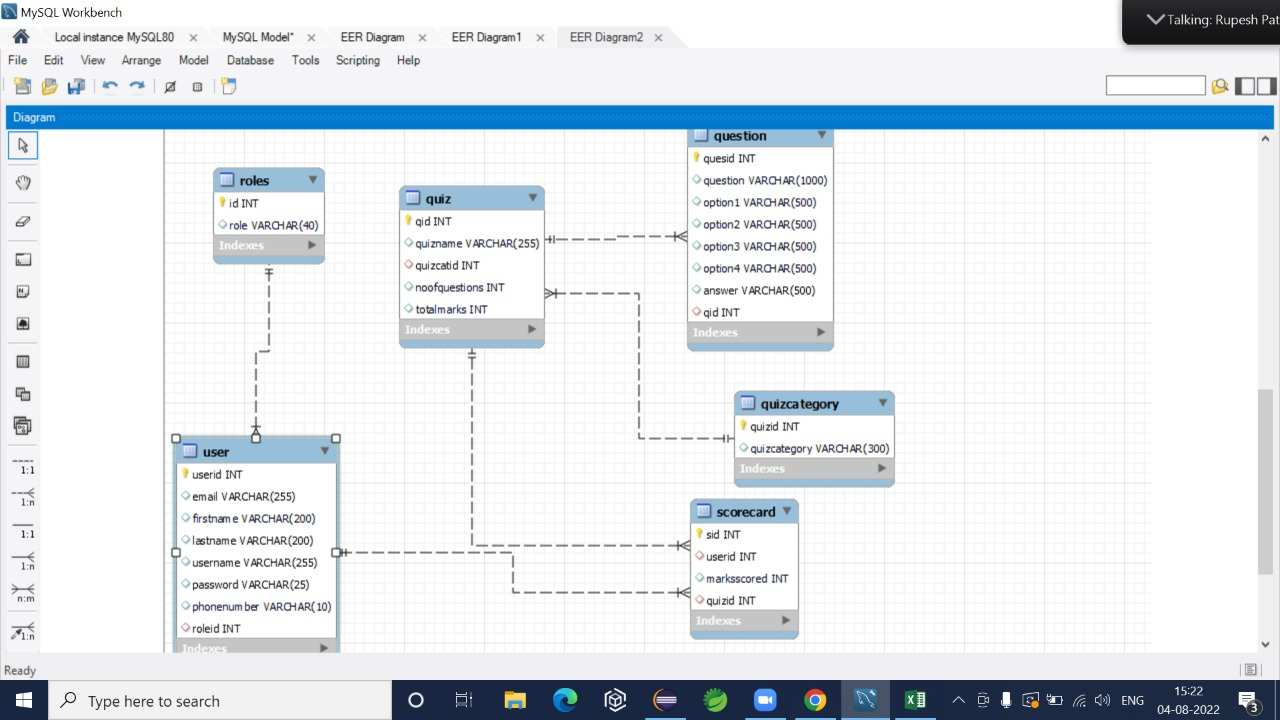
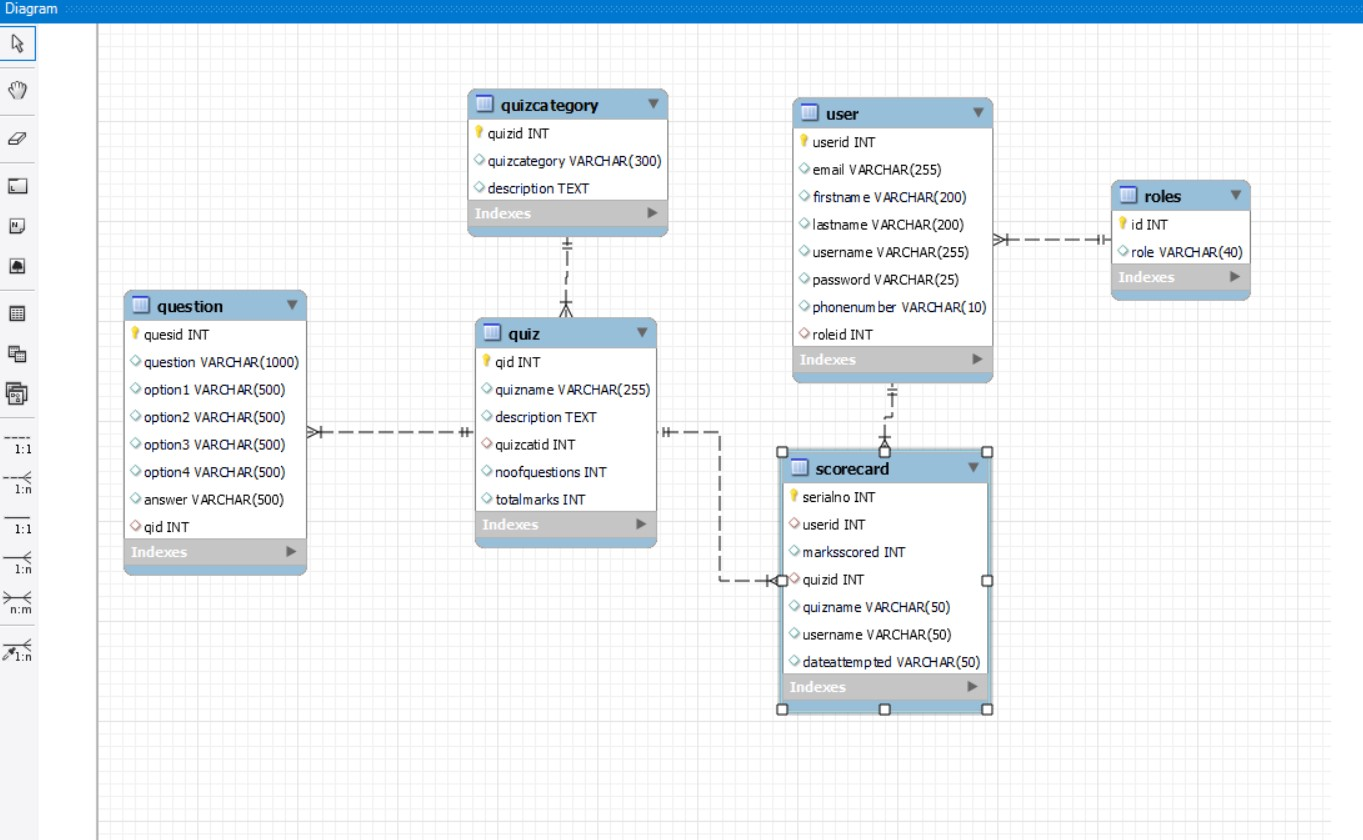
updated backend part

diff --git a/OnlineQuizNaveen's/src/main/java/com/example/demo/entity/ScoreCard.java b/OnlineQuizNaveen's/src/main/java/com/example/demo/entity/ScoreCard.java
@@ -1,0 +1,109 @@
+package com.example.demo.entity;
+
+
+import javax.persistence.Column;
+import javax.persistence.Entity;
+import javax.persistence.GeneratedValue;
+import javax.persistence.GenerationType;
+import javax.persistence.Id;
+import javax.persistence.Table;
+
+@Entity
+@Table(name="scorecard")
+public class ScoreCard {
+
+	@Id
+	@Column(name="serialno")
+	@GeneratedValue(strategy = GenerationType.IDENTITY)
+	private Integer serialNo;
+	@Column(name="userid")
+	private Integer userId;
+	@Column(name="marksscored")
+	private Integer marksScored;
+	@Column(name="quizid")
+	private Integer quizId;
+	
+	@Column(name ="quizname")
+	private String quizname;
+	
+	@Column(name="username")
+	private String userName;
+	
+	@Column(name ="dateattempted")
+	private String dateAttempted;
+	
+	public ScoreCard() {
+		
+	}
+
+	public ScoreCard(Integer serialNo, Integer userId, Integer marksScored, Integer quizId, String quizname,
+			String userName, String dateAttempted) {
+		super();
+		this.serialNo = serialNo;
+		this.userId = userId;
+		this.marksScored = marksScored;
+		this.quizId = quizId;
+		this.quizname = quizname;
+		this.userName = userName;
+		this.dateAttempted = dateAttempted;
+	}
+
+	public Integer getSerialNo() {
+		return serialNo;
+	}
+
+	public void setSerialNo(Integer serialNo) {
+		this.serialNo = serialNo;
+	}
+
+	public Integer getUserId() {
+		return userId;
+	}
+
+	public void setUserId(Integer userId) {
+		this.userId = userId;
+	}
+
+	public Integer getMarksScored() {
+		return marksScored;
+	}
+
+	public void setMarksScored(Integer marksScored) {
+		this.marksScored = marksScored;
+	}
+
+	public Integer getQuizId() {
+		return quizId;
+	}
+
+	public void setQuizId(Integer quizId) {
+		this.quizId = quizId;
+	}
+
+	public String getQuizname() {
+		return quizname;
+	}
+
+	public void setQuizname(String quizname) {
+		this.quizname = quizname;
+	}
+
+	public String getUserName() {
+		return userName;
+	}
+
+	public void setUserName(String userName) {
+		this.userName = userName;
+	}
+
+	public String getDateAttempted() {
+		return dateAttempted;
+	}
+
+	public void setDateAttempted(String dateAttempted) {
+		this.dateAttempted = dateAttempted;
+	}
+
+	
+
+}

diff --git a/OnlineQuizNaveen's/src/main/java/com/example/demo/entity/User.java b/OnlineQuizNaveen's/src/main/java/com/example/demo/entity/User.java
@@ -11,7 +11,7 @@ public class User {
 
 	@Id
 	@Column(name="userid")
-	private int userId;
+	private Integer userId;
 	@Column(name="email")
 	private String email;
 	@Column(name="firstname")
@@ -25,7 +25,7 @@ public class User {
 	@Column(name="phonenumber")
 	private String phoneNo;
 	@Column(name="roleid")
-	private int roleId;
+	private Integer roleId;
 
 	
 	public User() {
@@ -33,8 +33,8 @@ public class User {
 	}
 
 
-	public User(int userId, String email, String firstName, String lastName, String userName, String password,
-			String phoneNo, int roleId) {
+	public User(Integer userId, String email, String firstName, String lastName, String userName, String password,
+			String phoneNo, Integer roleId) {
 		super();
 		this.userId = userId;
 		this.email = email;
@@ -47,12 +47,12 @@ public class User {
 	}
 
 
-	public int getUserId() {
+	public Integer getUserId() {
 		return userId;
 	}
 
 
-	public void setUserId(int userId) {
+	public void setUserId(Integer userId) {
 		this.userId = userId;
 	}
 
@@ -117,12 +117,12 @@ public class User {
 	}
 
 
-	public int getRoleId() {
+	public Integer getRoleId() {
 		return roleId;
 	}
 
 
-	public void setRoleId(int roleId) {
+	public void setRoleId(Integer roleId) {
 		this.roleId = roleId;
 	}
 	

diff --git a/OnlineQuizNaveen's/src/main/java/com/example/demo/reposiitory/ScoreCardRepository.java b/OnlineQuizNaveen's/src/main/java/com/example/demo/reposiitory/ScoreCardRepository.java
@@ -1,6 +1,7 @@
 package com.example.demo.reposiitory;
 
 import java.util.List;
+import java.util.Set;
 
 import org.springframework.data.domain.Page;
 import org.springframework.data.domain.Pageable;
@@ -9,13 +10,17 @@ import org.springframework.data.rest.core.annotation.RepositoryRestResource;
 import org.springframework.web.bind.annotation.CrossOrigin;
 import org.springframework.web.bind.annotation.RequestParam;
 
+import com.example.demo.entity.ScoreCard;
 
-import com.example.demo.entity.User;
 
-@RepositoryRestResource(path="user")
+@RepositoryRestResource(path="scorecard")
 @CrossOrigin("http://localhost:4200")
-public interface UserRepository extends JpaRepository<User, Integer>{
-
-	public List<User> findByUserNameContainsIgnoreCase(String name);
-	//Page<User> findBycategoryId(@RequestParam("id")Integer id,Pageable pageable);
+public interface ScoreCardRepository extends JpaRepository<ScoreCard,Integer>{
+	
+	public List<ScoreCard> findByUserId(Integer id);
+	
+	Page<ScoreCard> findByquizId(@RequestParam("id")Integer id,Pageable pageable);
+	public Set<ScoreCard> findByQuizIdAndUserId(Integer quizId, Integer userId);
+	
+	
 }

diff --git a/OnlineQuizNaveen's/src/main/java/com/example/demo/reposiitory/UserRepository.java b/OnlineQuizNaveen's/src/main/java/com/example/demo/reposiitory/UserRepository.java
@@ -1,6 +1,7 @@
 package com.example.demo.reposiitory;
 
 import java.util.List;
+import java.util.Set;
 
 import org.springframework.data.domain.Page;
 import org.springframework.data.domain.Pageable;
@@ -9,14 +10,14 @@ import org.springframework.data.rest.core.annotation.RepositoryRestResource;
 import org.springframework.web.bind.annotation.CrossOrigin;
 import org.springframework.web.bind.annotation.RequestParam;
 
-import com.example.demo.entity.ScoreCard;
 
+import com.example.demo.entity.User;
 
-@RepositoryRestResource(path="scorecard")
+@RepositoryRestResource(path="user")
 @CrossOrigin("http://localhost:4200")
-public interface ScoreCardRepository extends JpaRepository<ScoreCard,Integer>{
-	
-	public List<ScoreCard> findByUserId(Integer id);
-	
-	Page<ScoreCard> findByquizId(@RequestParam("id")Integer id,Pageable pageable);
+public interface UserRepository extends JpaRepository<User, Integer>{
+
+	public List<User> findByUserNameContainsIgnoreCase(String name);
+	public User findByEmailContainsIgnoreCase(String email);
+	public Set<User> findByRoleId(Integer id);
 }

diff --git a/OnlineQuizNaveen's/src/main/java/com/example/demo/entity/Quiz.java b/OnlineQuizNaveen's/src/main/java/com/example/demo/entity/Quiz.java
@@ -21,20 +21,40 @@ public class Quiz {
 	@Column(name="totalmarks")
 	private int totalMarks;
 	
+	@Column(name ="description")
+	private String description;
+	
 	//private QuizCategory quizcategory;
 	
 	public Quiz() {
 		
 	}
 
-	public Quiz(int qId, String quizName, int quizcatId, int noOfQuestions, int totalMarks) {
+	
+
+	public Quiz(int qId, String quizName, int quizcatId, int noOfQuestions, int totalMarks, String description) {
 		super();
 		this.qId = qId;
 		this.quizName = quizName;
 		this.quizcatId = quizcatId;
 		this.noOfQuestions = noOfQuestions;
 		this.totalMarks = totalMarks;
+		this.description = description;
 	}
+
+
+
+	public String getDescription() {
+		return description;
+	}
+
+
+
+	public void setDescription(String description) {
+		this.description = description;
+	}
+
+
 
 	public int getqId() {
 		return qId;

diff --git a/OnlineQuizNaveen's/src/main/java/com/example/demo/entity/QuizCategory.java b/OnlineQuizNaveen's/src/main/java/com/example/demo/entity/QuizCategory.java
@@ -14,15 +14,18 @@ public class QuizCategory {
 	private int quizId;
 	@Column(name="quizcategory")
 	private String quizCategory;
+	@Column(name="description")
+	private String description;
 	
 	public QuizCategory() {
 		
 	}
 
-	public QuizCategory(int quizId, String quizCategory) {
+	public QuizCategory(int quizId, String quizCategory, String description) {
 		super();
 		this.quizId = quizId;
 		this.quizCategory = quizCategory;
+		this.description = description;
 	}
 
 	public int getQuizId() {
@@ -40,6 +43,17 @@ public class QuizCategory {
 	public void setQuizCategory(String quizCategory) {
 		this.quizCategory = quizCategory;
 	}
+
+	public String getDescription() {
+		return description;
+	}
+
+	public void setDescription(String description) {
+		this.description = description;
+	}
+
+	
+	
 	
 	
 }
